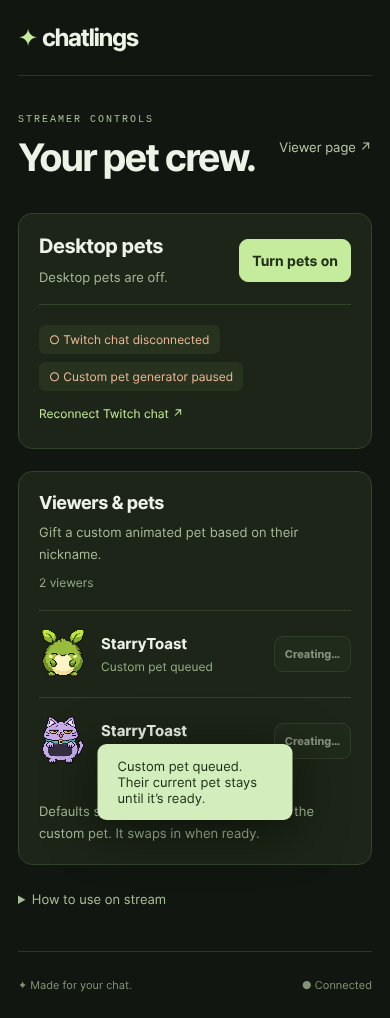
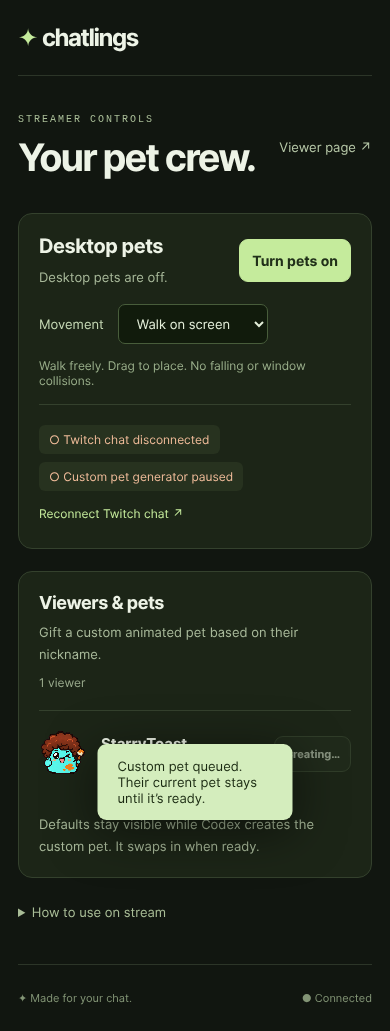
Add simple walking mode and fix desktop pet edge traps and throws

diff --git a/public/style.css b/public/style.css
@@ -1,2 +1,4 @@
 :root{color-scheme:dark;font-family:Inter,ui-sans-serif,system-ui,-apple-system,sans-serif;background:#111610;color:#edf3e6;font-synthesis:none}*{box-sizing:border-box}[hidden]{display:none!important}body{margin:0}a{color:inherit;text-decoration:none}button,a,summary{-webkit-tap-highlight-color:transparent}button{font:inherit;cursor:pointer}button:disabled{opacity:.55;cursor:default}a:focus-visible,button:focus-visible,summary:focus-visible{outline:3px solid #c5eb9c;outline-offset:5px}.shell{max-width:1160px;margin:auto;padding:0 32px}header{height:92px;display:flex;align-items:center;justify-content:space-between;border-bottom:1px solid #2c3528}.brand{font-size:28px;letter-spacing:-1.5px}.brand:first-letter{color:#c5eb9c}.brand strong{font-weight:650}.admin-link{font-size:13px;color:#b3bea9}.hero{text-align:center;padding:75px 0 54px;background:radial-gradient(ellipse at 50% 60%,#26351c55,transparent 65%)}.eyebrow{font:10px ui-monospace,monospace;letter-spacing:2px;color:#a9bd97}h1{font-size:clamp(46px,7vw,84px);line-height:1.02;letter-spacing:-4px;font-weight:650;margin:22px 0}h1 em{color:#c5eb9c;font-style:normal}.hero p{font-size:18px;line-height:1.7;color:#aab6a0}.button{display:inline-flex;justify-content:center;align-items:center;border-radius:9px;padding:14px 22px;border:1px solid #43523a;font-size:14px;font-weight:650;white-space:nowrap;background:#25301f;color:#e0edd5}.primary{background:#c5eb9c;color:#213019;border-color:#c5eb9c}.primary:hover{background:#d5f5b4}.hero .button{margin:13px 0}.hero small{display:block;font-size:12px;color:#8d9c81;margin-top:5px}.pet-gallery{border:1px solid #34412d;border-radius:18px;background:linear-gradient(140deg,#222d1b,#171e14);overflow:hidden}.section-heading{display:flex;align-items:center;justify-content:space-between;gap:18px;padding:26px 30px 0}.section-heading h2{margin:0;font-size:20px;letter-spacing:-.5px}.section-heading>span,.muted,.gallery-note{font-size:12px;color:#99aa8c}canvas{width:100%;display:block;image-rendering:pixelated}.gallery-note{text-align:center;margin:0 16px 24px;line-height:1.6}.commands{display:grid;grid-template-columns:1fr 1.4fr;gap:50px;padding:65px 12px 35px}.commands h2{font-size:30px;letter-spacing:-1px;line-height:1.25}.command-grid{display:grid;grid-template-columns:1fr 1fr;gap:14px 24px}.command-grid p{margin:0;padding:0 0 18px;border-bottom:1px solid #2c3826;line-height:1.9}code{font:12px ui-monospace,monospace;background:#26351d;color:#c7e9aa;padding:5px 7px;border-radius:5px;white-space:nowrap}.command-grid span{display:block;font-size:12px;color:#a6b29b;margin-top:8px}.closing{text-align:center;font-size:13px;color:#99aa8c;line-height:1.8;padding:10px 0 35px}footer{display:flex;justify-content:space-between;border-top:1px solid #2c3528;padding:26px 0;font-size:11px;color:#829475}.admin-heading{display:flex;justify-content:space-between;align-items:center;margin:42px 0 30px}.admin-heading h1{font-size:46px;letter-spacing:-2px;margin:12px 0}.admin-heading>a{font-size:13px;color:#b7c8a8}.card{padding:28px;border:1px solid #34412d;border-radius:14px;background:#1c2517;margin-bottom:22px}.card h2{font-size:20px;margin:0 0 8px;letter-spacing:-.5px}.card p{font-size:13px;color:#a8b99a;line-height:1.7;margin:0}.login{max-width:550px;margin:50px auto 100px}.login .button{margin:20px 0 5px}.login .muted{margin-top:14px}.setup{display:grid;grid-template-columns:1fr auto;align-items:center;gap:20px}.health{grid-column:1/-1;display:flex;gap:12px;flex-wrap:wrap;border-top:1px solid #34412d;padding-top:20px}.health span{background:#27321f;padding:7px 10px;border-radius:6px;font-size:12px;color:#c1d3b0}.health .offline{color:#efbb99}.health a{font-size:12px;padding:7px 0;color:#c5eb9c}.roster-card .section-heading{padding:0;margin-bottom:20px}.roster-card .section-heading p{margin-top:7px}.count{white-space:nowrap}.viewer-row{display:flex;align-items:center;justify-content:space-between;gap:18px;padding:17px 0;border-top:1px solid #34412d}.viewer-row strong{display:block;font-size:15px;overflow-wrap:anywhere}.viewer-row small{display:block;font-size:12px;color:#97ae85;margin-top:6px}.viewer-row .button{font-size:12px;padding:10px 14px}.hint{padding-top:16px}.empty{padding:30px 0}.help{margin:0 0 40px;padding:4px 0;font-size:13px;color:#a9bd97}.help summary{cursor:pointer}.help p{max-width:680px;line-height:1.8}#notice{position:fixed;bottom:24px;left:50%;transform:translateX(-50%);padding:14px 20px;border-radius:9px;background:#d4edbd;color:#1b2b12;box-shadow:0 10px 50px #0008;font-size:13px;max-width:calc(100vw - 32px);z-index:20}#notice:empty{display:none}@media(max-width:680px){.shell{padding:0 18px}header{height:76px}.brand{font-size:24px}.admin-link{font-size:11px}.hero{padding:55px 0 36px}h1{letter-spacing:-2.5px}.hero p{font-size:15px}.section-heading{padding:20px 20px 0;align-items:start;flex-direction:column;gap:8px}.section-heading h2{font-size:18px}.gallery-note{font-size:11px}.commands{grid-template-columns:1fr;gap:15px;padding:40px 0 20px}.commands h2{font-size:27px;margin:12px 0}.command-grid{gap:12px}.closing{font-size:12px}.admin-heading{margin:30px 0 24px}.admin-heading h1{font-size:38px}.card{padding:20px}.setup{gap:16px}.setup .button{padding:12px}.viewer-row{gap:8px}.viewer-row .button{font-size:11px;padding:10px}.roster-card .section-heading{gap:10px}.health{gap:8px}.login{margin:25px 0 70px}}@media(prefers-reduced-motion:reduce){*{scroll-behavior:auto}}
 .person{display:flex;align-items:center;gap:14px;min-width:0}.person canvas{width:48px;height:52px;flex-shrink:0}.person>div{min-width:0}
+
+.movement{grid-column:1/-1;display:flex;align-items:center;gap:14px;flex-wrap:wrap}.movement label{font-size:13px;color:#c5d8b4}.movement select{font:inherit;font-size:13px;padding:10px 14px;border:1px solid #485d3b;border-radius:7px;background:#111b0c;color:#e4efda}.movement small{font-size:12px;color:#99ae8a}

diff --git a/public/app.js b/public/app.js
@@ -19,7 +19,8 @@ function renderRoster(){const players=world.players.filter(p=>!p.simulated&&!p.i
  for(const p of visible){let row=rows.get(p.id);if(!row){const el=document.createElement('div');el.className='viewer-row';const person=document.createElement('div');person.className='person';const canvas=document.createElement('canvas');canvas.width=48;canvas.height=52;canvas.setAttribute('aria-hidden','true');const info=document.createElement('div'),name=document.createElement('strong'),detail=document.createElement('small'),button=document.createElement('button');info.append(name,detail);person.append(canvas,info);button.className='button';button.onclick=()=>commission(p.id);el.append(person,button);$('roster').append(el);row={el,canvas,name,detail,button};rows.set(p.id,row);}row.name.textContent=p.name;const jobs=world.skins.filter(j=>j.userId===p.id),latest=jobs.at(-1),ready=jobs.filter(j=>j.status==='ready').at(-1),waiting=['queued','generating'].includes(latest?.status);row.asset=ready?.asset||'/pets/'+ids[p.appearance.seed%5]+'.png';row.detail.textContent=latest?.status==='queued'?'Custom pet queued':latest?.status==='generating'?'Codex is creating this pet…':latest?.status==='failed'?'Creation failed · current pet kept':ready?'Custom pet':names[p.appearance.seed%5]+' · default';row.button.textContent=waiting?'Creating…':ready?'New custom pet':'Make custom pet';row.button.disabled=waiting||pending.has(p.id);}
 }
 async function commission(id){pending.add(id);renderRoster();try{await api('skins/host',{action:'assign',userId:id});notify('Custom pet queued. Their current pet stays until it’s ready.');await pollWorld();}catch(e){notify(e.message);}finally{pending.delete(id);renderRoster();}}
-async function refreshStatus(){if(!admin||!meta.host)return;try{status=await api('admin/status');$('desktopStatus').textContent=status.desktop.running?'Pets are running on your streaming desktop.':'Desktop pets are off.';$('desktopToggle').textContent=status.desktop.running?'Turn pets off':'Turn pets on';$('desktopToggle').disabled=desktopBusy;$('chatStatus').textContent=status.chat==='connected'?'● Twitch chat connected':'○ Twitch chat disconnected';$('chatStatus').classList.toggle('offline',status.chat!=='connected');$('hatchStatus').textContent=status.hatchery.running?'● Custom pet generator ready':'○ Custom pet generator paused';$('hatchStatus').classList.toggle('offline',!status.hatchery.running);$('reconnectChat').hidden=status.chat==='connected'||location.hostname!=='localhost';}catch(e){$('desktopStatus').textContent=e.message;}}
+async function refreshStatus(){if(!admin||!meta.host)return;try{status=await api('admin/status');if(document.activeElement!==$('movementMode'))$('movementMode').value=status.desktop.mode||'walk';$('movementHelp').textContent=status.desktop.mode==='physics'?'Gravity, throws and landings on visible window tops.':'Walk freely. Drag to place. No falling or window collisions.';$('desktopStatus').textContent=status.desktop.running?'Pets are running on your streaming desktop.':'Desktop pets are off.';$('desktopToggle').textContent=status.desktop.running?'Turn pets off':'Turn pets on';$('desktopToggle').disabled=desktopBusy;$('chatStatus').textContent=status.chat==='connected'?'● Twitch chat connected':'○ Twitch chat disconnected';$('chatStatus').classList.toggle('offline',status.chat!=='connected');$('hatchStatus').textContent=status.hatchery.running?'● Custom pet generator ready':'○ Custom pet generator paused';$('hatchStatus').classList.toggle('offline',!status.hatchery.running);$('reconnectChat').hidden=status.chat==='connected'||location.hostname!=='localhost';}catch(e){$('desktopStatus').textContent=e.message;}}
+$('movementMode').onchange=async()=>{const mode=$('movementMode').value;$('movementMode').disabled=true;try{await api('admin/desktop-settings',{mode});notify(mode==='walk'?'Walk mode on. Drag pets wherever you like.':'Window physics on.');}catch(e){notify(e.message);}finally{$('movementMode').disabled=false;await refreshStatus();}};
 $('desktopToggle').onclick=async()=>{desktopBusy=true;$('desktopToggle').disabled=true;try{await api('admin/desktop',{enabled:!status.desktop?.running});notify(status.desktop?.running?'Desktop pets stopped.':'Starting desktop pets…');}catch(e){notify(e.message);}finally{desktopBusy=false;await refreshStatus();}};
 async function pollWorld(){try{world=await api('state');$('connection').textContent='● Connected';if(admin&&meta.host)renderRoster();}catch{$('connection').textContent='Reconnecting…';}}
 async function init(){try{meta=await api('me');if(meta.channel){$('chatLink').href='https://www.twitch.tv/'+encodeURIComponent(meta.channel)+'/chat';$('chatLink').target='_blank';$('chatLink').rel='noopener';$('chatLink').textContent='Join '+meta.channel+'’s chat ↗';}else $('chatLink').textContent='See chat commands';if(admin){$('adminGate').hidden=!!meta.host;$('adminControls').hidden=!meta.host;if(meta.user&&!meta.host)$('gateMessage').textContent='You’re signed in as '+meta.user.name+'. Switch to the broadcaster’s Twitch account to manage pets.';await refreshStatus();}await pollWorld();}catch(e){notify(e.message);}}

diff --git a/public/index.html b/public/index.html
@@ -6,6 +6,6 @@
 <section id="commands" class="commands"><div><span class="eyebrow">JUST TYPE IN TWITCH CHAT</span><h2>A little nudge.<br>A lot of personality.</h2></div><div class="command-grid"><p><code>hello!</code><span>A message above your pet</span></p><p><code>!left</code> <code>!right</code><span>Move your pet</span></p><p><code>!jump</code><span>A little hop</span></p><p><code>!dance</code> <code>!spin</code><span>Show off</span></p><p><code>!love</code> <code>!rage</code> <code>!party</code><span>Big feelings</span></p><p><code>!stay</code> <code>!roam</code> <code>!sleep</code><span>Settle down or explore</span></p></div></section><p class="closing">Five defaults to start. The streamer can gift you a custom pet inspired by your nickname.</p></main>
 <main id="adminPage" hidden><div class="admin-heading"><div><span class="eyebrow">STREAMER CONTROLS</span><h1>Your pet crew.</h1></div><a href="/">Viewer page ↗</a></div>
 <section id="adminGate" class="card login"><h2>Sign in as the streamer.</h2><p>Use the Twitch account that owns this stream.</p><a class="button primary" href="/auth/twitch?admin=1">Sign in with Twitch</a><p id="gateMessage" class="muted"></p></section>
-<div id="adminControls" hidden><section class="card setup"><div><h2>Desktop pets</h2><p id="desktopStatus">Checking desktop…</p></div><button id="desktopToggle" class="button primary" disabled>Checking…</button><div class="health"><span id="chatStatus">Chat · checking</span><span id="hatchStatus">Custom pets · checking</span><a id="reconnectChat" href="/auth/chat" hidden>Reconnect Twitch chat ↗</a></div></section>
+<div id="adminControls" hidden><section class="card setup"><div><h2>Desktop pets</h2><p id="desktopStatus">Checking desktop…</p></div><button id="desktopToggle" class="button primary" disabled>Checking…</button><div class="movement"><label for="movementMode">Movement</label><select id="movementMode"><option value="walk">Walk on screen</option><option value="physics">Window physics</option></select><small id="movementHelp">Walk freely. Drag to place. No falling or window collisions.</small></div><div class="health"><span id="chatStatus">Chat · checking</span><span id="hatchStatus">Custom pets · checking</span><a id="reconnectChat" href="/auth/chat" hidden>Reconnect Twitch chat ↗</a></div></section>
 <section class="card roster-card"><div class="section-heading"><div><h2>Viewers & pets</h2><p>Gift a custom animated pet based on their nickname.</p></div><span id="viewerCount" class="count">0 viewers</span></div><div id="roster"></div><p class="muted hint">Defaults stay visible while Codex creates the custom pet. It swaps in when ready.</p></section><details class="help"><summary>How to use on stream</summary><p>Capture your display in OBS. Drag pets with your mouse and release to throw them. They land on visible window tops and fall off edges.</p><p>Viewers join by chatting. You can also gift a pet by typing <code>!custom viewername</code> in Twitch chat.</p></details></div></main>
 <footer><span>✦ Made for your chat.</span><span id="connection">Connecting…</span></footer><div id="notice" role="status" aria-live="polite"></div></div><script type="module" src="/app.js"></script></body></html>

diff --git a/desktop/physics.py b/desktop/physics.py
@@ -33,6 +33,9 @@ class Body:
     drive: int = 0
     last_intent: int = 0
     last_horizontal: float = 0
+    walk_y: object = None
+    jump_start: float = -100
+    turn_until: float = 0
     landed_at: float = -10
     offset: tuple = (0, 0)
     samples: list = field(default_factory=list)
@@ -76,16 +79,17 @@ def visible_edges(windows, width, height):
 class Physics:
     HALF = 32
     HEIGHT = 74
-    GRAVITY = 1400
-    MAX_FALL = 1200
-    WALK = 70
+    GRAVITY = 2000
+    MAX_FALL = 1500
+    WALK = 60
 
-    def __init__(self, width, height, floor=None, left=0, right=None, ceiling=0):
+    def __init__(self, width, height, floor=None, left=0, right=None, ceiling=0, mode="physics"):
         self.width, self.height = width, height
         self.floor = height-3 if floor is None else floor
         self.left = left+self.HALF
         self.right = (width if right is None else right)-self.HALF
         self.ceiling = ceiling+self.HEIGHT
+        self.mode = mode
         self.bodies = {}
         self.edges = []
         self.clock = 0
@@ -96,7 +100,54 @@ class Physics:
         for p in actors:
             if p['id'] not in self.bodies:
                 x = 45 + p.get('x', 450)/960*(self.width-90)
-                self.bodies[p['id']] = Body(max(self.left, min(self.right, x)), self.ceiling+16)
+                self.bodies[p['id']] = Body(max(self.left, min(self.right, x)), self.floor-34 if self.mode=='walk' else self.ceiling+16)
+
+    def set_mode(self, mode):
+        if mode not in ('walk','physics'): raise ValueError('Unknown movement mode')
+        if mode == self.mode:return
+        self.mode = mode
+        for b in self.bodies.values():
+            b.x = max(self.left+8, min(self.right-8,b.x))
+            b.vx = b.vy = 0; b.thrown = False; b.jump_start = -100
+            b.support = 'walk' if mode == 'walk' else None
+            b.walk_y = max(self.ceiling,min(self.floor-24,b.y))
+            b.y = b.walk_y
+
+    def _drive(self,b,actor,dt):
+        direction = (-1 if actor.get('facing') == 'left' else 1) if actor.get('moving') else 0
+        emote = actor.get('emote') or {}
+        if emote.get('until',0) > actor.get('_now',0): direction = 0
+        if direction != b.last_intent:
+            if self.clock >= b.turn_until:b.drive = direction
+            b.last_intent = direction
+        move = actor.get('chatMove') or {}
+        if move.get('x') and move.get('until',0) > max(b.last_horizontal,actor.get('_now',0)):
+            b.last_horizontal = move['until']; b.drive = -1 if move['x'] < 0 else 1
+        if direction and not b.drive:b.drive = direction
+        desired = b.drive*self.WALK if direction else 0
+        b.vx += max(-1200*dt,min(1200*dt,desired-b.vx))
+
+    def _screen_bounds(self,b):
+        if b.x <= self.left and b.vx < 0:
+            b.x = self.left; b.vx = abs(b.vx)*(.3 if b.support is None else 1)
+            b.drive = 1; b.turn_until = self.clock+.8
+        elif b.x >= self.right and b.vx > 0:
+            b.x = self.right; b.vx = -abs(b.vx)*(.3 if b.support is None else 1)
+            b.drive = -1; b.turn_until = self.clock+.8
+        b.x = max(self.left,min(self.right,b.x))
+
+    def _walk_step(self,b,actor,dt):
+        if b.dragging:return
+        if b.walk_y is None:b.walk_y = max(self.ceiling,min(self.floor-24,b.y))
+        stamp = actor.get('jumpedAt',0)
+        if stamp > b.last_jump:
+            b.last_jump = stamp; b.jump_start = self.clock
+        self._drive(b,actor,dt); b.x += b.vx*dt; self._screen_bounds(b)
+        age = self.clock-b.jump_start
+        if age < .6:
+            phase = max(0,age/.6); b.y = max(self.ceiling,b.walk_y-4*42*phase*(1-phase))
+            b.vy = -280*(1-2*phase); b.support = None
+        else:b.y = b.walk_y; b.vy = 0; b.support = 'walk'
 
     def begin_drag(self, pid, x, y, now):
         body = self.bodies[pid]
@@ -114,22 +165,25 @@ class Physics:
 
     def release(self, pid, now):
         body = self.bodies[pid]; body.dragging = False
+        if self.mode == 'walk':
+            body.walk_y = max(self.ceiling,min(self.floor-24,body.y));body.y = body.walk_y
+            body.vx = body.vy = 0;body.thrown = False;body.support = 'walk';body.samples = [];return
         recent = [s for s in body.samples if now-s[0] <= .13]
         body.vx = body.vy = 0
         if len(recent) >= 2 and now-recent[-1][0] < .08:
             first, last = recent[0], recent[-1]
             duration = max(.015, last[0]-first[0])
-            body.vx = max(-1500, min(1500, (last[1]-first[1])/duration))
-            body.vy = max(-1300, min(1300, (last[2]-first[2])/duration))
+            body.vx = max(-1200, min(1200, (last[1]-first[1])/duration))
+            body.vy = max(-1400, min(1400, (last[2]-first[2])/duration))
         body.thrown = abs(body.vx) > 160 or abs(body.vy) > 160
-        if body.thrown and body.vy > -100:
-            body.vy = -abs(body.vx)*.35
         if not body.thrown: body.vx = body.vy = 0
         body.samples = []; body.support = None
 
     def reset(self, pid):
         body = self.bodies[pid]
-        body.y = self.ceiling+16; body.vx = body.vy = 0; body.support = None; body.thrown = False
+        body.x = (self.left+self.right)/2;body.drive=0;body.last_intent=0;body.dragging=False;body.samples=[]
+        body.walk_y = self.floor-34 if self.mode=='walk' else None
+        body.y = body.walk_y if self.mode=='walk' else self.ceiling+16; body.vx = body.vy = 0; body.support = None; body.thrown = False
 
     def step(self, dt, actors):
         self.clock += min(max(dt, 0), .1)
@@ -139,7 +193,8 @@ class Physics:
         while remaining > .000001:
             step = min(remaining, 1/120)
             for actor in actors:
-                self._body_step(self.bodies[actor['id']], actor, step)
+                if self.mode=='walk':self._walk_step(self.bodies[actor['id']],actor,step)
+                else:self._body_step(self.bodies[actor['id']],actor,step)
             remaining -= step
 
     def _body_step(self, b, actor, dt):
@@ -157,43 +212,36 @@ class Physics:
         if stamp > b.last_jump:
             b.last_jump = stamp
             if b.support is not None:
-                b.vy = -560; b.support = None
+                b.vy = -520; b.support = None
         move = actor.get('chatMove') or {}
         if move.get('until', 0) > max(b.last_vertical,actor.get('_now',0)) and move.get('y'):
             b.last_vertical = move['until']
             if move['y'] < 0 and b.support is not None:
-                b.support = None; b.vy = -560
+                b.support = None; b.vy = -520
             elif move['y'] > 0 and b.support not in (None, 'floor'):
                 b.ignore_window = b.support; b.ignore_until = self.clock+.5
                 b.support = None; b.y += 2; b.vy = 80
-        if b.support is not None:
-            direction = (-1 if actor.get('facing') == 'left' else 1) if actor.get('moving') else 0
-            emote = actor.get('emote') or {}
-            if emote.get('until', 0) > actor.get('_now', 0): direction = 0
-            if direction != b.last_intent:
-                b.drive = direction; b.last_intent = direction
-            if move.get('x') and move.get('until',0) > max(b.last_horizontal,actor.get('_now',0)):
-                b.last_horizontal = move['until']; b.drive = -1 if move['x'] < 0 else 1
-            desired = b.drive*self.WALK if direction else 0
-            b.vx += max(-1100*dt, min(1100*dt, desired-b.vx))
+        if b.support is not None:self._drive(b,actor,dt)
         else:
-            b.vy = min(self.MAX_FALL, b.vy+self.GRAVITY*dt)
-            b.vx *= math.exp(-.18*dt)
+            b.vy = min(self.MAX_FALL,b.vy+self.GRAVITY*dt)
+            b.vx *= math.exp(-.08*dt)
         old_x, old_y = b.x, b.y
         b.x += b.vx*dt
-        if b.x < self.left or b.x > self.right:
-            b.x = max(self.left, min(self.right, b.x)); b.vx *= -.55
-            if b.support is not None:b.drive=1 if b.x==self.left else -1
+        self._screen_bounds(b)
         # Side-wall impact; touching a roof is not a side impact.
         for e in self.edges:
             if e.window == b.ignore_window and self.clock < b.ignore_until: continue
+            # A wall beside a monitor edge must not create an impossible narrow pocket.
+            if e.side=='left' and e.coord-self.HALF < self.left+12:continue
+            if e.side=='right' and e.coord+self.HALF > self.right-12:continue
             if e.side not in ('left', 'right') or not (b.y > e.start+1 and b.y-self.HEIGHT < e.end-1): continue
             if e.side == 'left' and b.vx > 0 and old_x+self.HALF <= e.coord+.01 and b.x+self.HALF >= e.coord:
-                b.x = e.coord-self.HALF; b.vx *= -.55
-                if b.support is not None:b.drive=-1
+                b.x = e.coord-self.HALF; b.vx *= -.3
+                if b.support is not None:b.drive=-1;b.turn_until=self.clock+.8
             elif e.side == 'right' and b.vx < 0 and old_x-self.HALF >= e.coord-.01 and b.x-self.HALF <= e.coord:
-                b.x = e.coord+self.HALF; b.vx *= -.55
-                if b.support is not None:b.drive=1
+                b.x = e.coord+self.HALF; b.vx *= -.3
+                if b.support is not None:b.drive=1;b.turn_until=self.clock+.8
+        self._screen_bounds(b)
         if b.support not in (None, 'floor') and not any(e.side == 'top' and e.window == b.support and e.start <= b.x <= e.end for e in self.edges):
             b.support = None
         if b.support is None:
@@ -208,15 +256,15 @@ class Physics:
                 ceilings = [e for e in self.edges if e.side == 'bottom' and e.start-self.HALF < b.x < e.end+self.HALF and old_y-self.HEIGHT >= e.coord-.01 and b.y-self.HEIGHT <= e.coord]
                 if ceilings:
                     ceiling = max(ceilings, key=lambda e:e.coord)
-                    b.y = ceiling.coord+self.HEIGHT; b.vy = abs(b.vy)*.3
+                    b.y = ceiling.coord+self.HEIGHT; b.vy = abs(b.vy)*.15
             if b.y >= self.floor:
                 b.y = self.floor; self._land(b, 'floor', 0, self.floor)
             if b.y < self.ceiling:
-                b.y = self.ceiling; b.vy = abs(b.vy)*.3
+                b.y = self.ceiling; b.vy = abs(b.vy)*.15
 
     def _land(self, b, support, x, y):
-        if b.thrown and b.vy > 300:
-            b.vy *= -.28; b.vx *= .78
+        if b.thrown and b.vy > 480:
+            b.vy *= -.12; b.vx *= .6
             b.support = None; b.y -= .1
         else:
             b.vy = 0; b.thrown = False; b.support = support

diff --git a/desktop/overlay.py b/desktop/overlay.py
@@ -26,6 +26,7 @@ import cairo
 ROOT=Path(__file__).resolve().parents[1]
 STATUS=ROOT/'data/desktop-status.json'
 PID=ROOT/'data/desktop-overlay.pid'
+SETTINGS=ROOT/'data/desktop-settings.json'
 DEFAULT_IDS=['mossbyte','toast-panic','sir-honk','blob-ross','buffer-cat']
 ROW_COUNTS=[6,8,8,4,5,8,6,6,6,6,6,6,6,6,6,6,6,6,6,6,6,6]
 EMOTE_ROWS={'dance':20,'spin':13,'love':16,'rage':5,'party':3,'sleep':6}
@@ -128,6 +129,11 @@ class Renderer:
    x,y=map_position(fusion['x'],fusion['y'],width,height);rgba(ctx,'#afcf9d');ctx.rectangle(x-42,y-80,84,80);ctx.fill();ctx.rectangle(x-28,y-115,56,36);ctx.fill();rgba(ctx,'#304f46');ctx.rectangle(x-20,y-103,40,10);ctx.fill();self.label(ctx,'COMMUNITY GUARDIAN',x,y+25)
 
 class Overlay(Gtk.Window):
+ def read_mode(self):
+  try:mode=json.loads(SETTINGS.read_text()).get('mode','walk');return mode if mode in ('walk','physics') else 'walk'
+  except (OSError,ValueError):return 'walk'
+ def set_mode(self,mode):
+  SETTINGS.parent.mkdir(exist_ok=True);temp=SETTINGS.with_suffix('.local.tmp');temp.write_text(json.dumps({'mode':mode}));temp.replace(SETTINGS);self.physics.set_mode(mode)
  def __init__(self,url):
   super().__init__(title='Chatlings desktop pets')
   self.url=url;self.state={};self.received=0;self.renderer=Renderer();self.frames=0;self.dragged=None;self.surface_error=None;self.last_tick=time.monotonic();self.last_scan=0
@@ -136,7 +142,7 @@ class Overlay(Gtk.Window):
   self.set_visual(visual);self.set_app_paintable(True);self.set_decorated(False);self.set_resizable(False);self.set_keep_above(True);self.set_accept_focus(False);self.set_focus_on_map(False);self.set_skip_taskbar_hint(True);self.set_skip_pager_hint(True);self.set_type_hint(Gdk.WindowTypeHint.DOCK);self.stick()
   monitor=Gdk.Display.get_default().get_primary_monitor() or Gdk.Display.get_default().get_monitor(0);bounds=monitor.get_geometry();self.set_default_size(bounds.width,bounds.height);self.set_size_request(bounds.width,bounds.height);self.move(bounds.x,bounds.y)
   area=monitor.get_workarea()
-  self.physics=Physics(bounds.width,bounds.height,floor=min(bounds.height,area.y+area.height-bounds.y)-3,left=max(0,area.x-bounds.x),right=min(bounds.width,area.x+area.width-bounds.x),ceiling=max(0,area.y-bounds.y));self.surfaces=WindowSurfaces(bounds.x,bounds.y,bounds.width,bounds.height)
+  self.physics=Physics(bounds.width,bounds.height,floor=min(bounds.height,area.y+area.height-bounds.y)-3,left=max(0,area.x-bounds.x),right=min(bounds.width,area.x+area.width-bounds.x),ceiling=max(0,area.y-bounds.y),mode=self.read_mode());self.surfaces=WindowSurfaces(bounds.x,bounds.y,bounds.width,bounds.height)
   self.add_events(Gdk.EventMask.BUTTON_PRESS_MASK|Gdk.EventMask.BUTTON_RELEASE_MASK|Gdk.EventMask.POINTER_MOTION_MASK)
   self.connect('button-press-event',self.press);self.connect('motion-notify-event',self.motion);self.connect('button-release-event',self.release)
   self.connect('grab-broken-event',self.lost_grab)
@@ -166,7 +172,11 @@ class Overlay(Gtk.Window):
   pid=self.hit(x,y)
   if not pid:return False
   if button==3:
-   menu=Gtk.Menu();drop=Gtk.MenuItem(label='Drop this pet from the top');drop.connect('activate',lambda *_:self.physics.reset(pid));menu.append(drop);menu.show_all();menu.popup_at_pointer(event);self.context_menu=menu;return True
+   menu=Gtk.Menu();walk=Gtk.RadioMenuItem.new_with_label(None,'Walk on screen');full=Gtk.RadioMenuItem.new_with_label_from_widget(walk,'Window physics')
+   (walk if self.physics.mode=='walk' else full).set_active(True)
+   walk.connect('toggled',lambda item:self.set_mode('walk') if item.get_active() else None);full.connect('toggled',lambda item:self.set_mode('physics') if item.get_active() else None)
+   menu.append(walk);menu.append(full);menu.append(Gtk.SeparatorMenuItem())
+   drop=Gtk.MenuItem(label='Bring this pet back');drop.connect('activate',lambda *_:self.physics.reset(pid) if pid in self.physics.bodies else None);menu.append(drop);menu.show_all();menu.popup_at_pointer(event);self.context_menu=menu;return True
   if button!=1:return False
   self.dragged=pid;self.physics.begin_drag(pid,x,y,time.monotonic());self.update_input()
   seat=self.get_display().get_default_seat()
@@ -204,7 +214,9 @@ class Overlay(Gtk.Window):
  def tick(self):
   now=time.monotonic();dt=now-self.last_tick;self.last_tick=now
   if now-self.last_scan>.12:
-   try:self.physics.edges=self.surfaces.scan();self.surface_error=None
+   try:
+    self.physics.set_mode(self.read_mode())
+    self.physics.edges=self.surfaces.scan() if self.physics.mode=='physics' else [];self.surface_error=None
    except Exception as error:self.surface_error=str(error);self.physics.edges=[]
    self.last_scan=now
   self.physics.step(dt,self.actors())
@@ -214,7 +226,7 @@ class Overlay(Gtk.Window):
  def paint(self,_,ctx):
   self.renderer.draw(ctx,self.state if time.monotonic()-self.received<5 else {},self.get_allocated_width(),self.get_allocated_height(),self.physics.bodies);self.frames+=1
   if self.frames%30==1:
-   STATUS.parent.mkdir(exist_ok=True);STATUS.write_text(json.dumps({'pid':os.getpid(),'windowId':self.get_window().get_xid(),'clickThroughOutsidePets':True,'mouseGrabEnabled':True,'dragged':self.dragged,'surfaceWindows':self.surfaces.count,'surfaceError':self.surface_error,'bodies':{pid:{'x':round(b.x,1),'y':round(b.y,1),'vx':round(b.vx,1),'vy':round(b.vy,1),'support':b.support,'dragging':b.dragging} for pid,b in self.physics.bodies.items()},'transparent':True,'frames':self.frames,'players':[p.get('name') for p in self.state.get('players',[])],'connected':time.monotonic()-self.received<5}))
+   STATUS.parent.mkdir(exist_ok=True);STATUS.write_text(json.dumps({'pid':os.getpid(),'windowId':self.get_window().get_xid(),'clickThroughOutsidePets':True,'mode':self.physics.mode,'mouseGrabEnabled':True,'dragged':self.dragged,'surfaceWindows':self.surfaces.count,'surfaceError':self.surface_error,'bodies':{pid:{'x':round(b.x,1),'y':round(b.y,1),'vx':round(b.vx,1),'vy':round(b.vy,1),'support':b.support,'dragging':b.dragging} for pid,b in self.physics.bodies.items()},'transparent':True,'frames':self.frames,'players':[p.get('name') for p in self.state.get('players',[])],'connected':time.monotonic()-self.received<5}))
   return True
 
 def main():

diff --git a/desktop/test_physics.py b/desktop/test_physics.py
@@ -76,4 +76,37 @@ class PhysicsTests(unittest.TestCase):
         sim=Physics(1000,700);sim.sync([A,{'id':'two'}]);sim.bodies['two'].x=600
         sim.sync([{'id':'two'}]);self.assertNotIn('viewer',sim.bodies);self.assertEqual(sim.bodies['two'].x,600)
 
+    def test_narrow_window_side_cannot_trap_pet(self):
+        sim=Physics(1000,700);sim.edges=visible_edges([(7,70,100,900,590)],1000,700)
+        sim.bodies['viewer']=Body(34,697,support='floor')
+        b=self.settle(sim,3,{**A,'moving':True,'facing':'right'})
+        self.assertGreater(b.x,180);self.assertLessEqual(b.x,sim.right)
+
+    def test_throw_follows_mouse_without_artificial_upward_kick(self):
+        for end_y in (200,280):
+            sim=Physics(1000,700);sim.bodies['viewer']=Body(200,200)
+            sim.begin_drag('viewer',200,200,1);sim.drag('viewer',280,end_y,1.08);sim.release('viewer',1.081)
+            self.assertAlmostEqual(sim.bodies['viewer'].vy,(end_y-200)/.08)
+            b=self.settle(sim,2);self.assertEqual(b.support,'floor');self.assertFalse(b.thrown)
+
+    def test_walk_mode_ignores_windows_and_keeps_placement(self):
+        sim=Physics(1000,700,mode='walk');sim.bodies['viewer']=Body(200,400)
+        sim.edges=visible_edges([(7,250,100,500,500)],1000,700)
+        b=self.settle(sim,3,{**A,'moving':True,'facing':'right'})
+        self.assertGreater(b.x,350);self.assertEqual(b.y,400)
+        sim.begin_drag('viewer',b.x,b.y,1);sim.drag('viewer',600,250,1.05);sim.release('viewer',1.051)
+        self.assertFalse(b.thrown);self.assertEqual(b.vx,0)
+        self.settle(sim,2);self.assertEqual(b.y,250)
+
+    def test_walk_mode_turns_at_edge_and_jump_returns_to_baseline(self):
+        sim=Physics(1000,700,mode='walk');sim.bodies['viewer']=Body(965,400)
+        b=self.settle(sim,1,{**A,'moving':True,'facing':'right','jumpedAt':999})
+        self.assertLess(b.x,940);self.assertEqual(b.y,400);self.assertEqual(b.support,'walk')
+
+    def test_switch_modes_clears_old_window_support_and_throw(self):
+        sim=Physics(1000,700);b=Body(10,350,vx=900,vy=-400,support=7,thrown=True);sim.bodies['viewer']=b
+        sim.set_mode('walk');self.assertEqual(b.support,'walk');self.assertFalse(b.thrown);self.assertEqual(b.vy,0)
+        self.assertGreater(b.x,sim.left);sim.set_mode('physics');self.assertIsNone(b.support)
+        b=self.settle(sim);self.assertEqual(b.support,'floor')
+
 if __name__=='__main__':unittest.main()

diff --git a/qa/simple-site-check.py b/qa/simple-site-check.py
@@ -18,6 +18,12 @@ with sync_playwright() as p:
  # Only this isolated test server has keyless local demo-host mode.
  response=context.request.post(base+'/api/demo',data={'name':'StarryToast'});assert response.status==200
  user=response.json()['user'];page.goto(base+'/admin');page.wait_for_selector('#adminControls:not([hidden])')
+ page.locator('#movementMode').select_option('physics')
+ page.wait_for_function("document.querySelector('#movementHelp').textContent.includes('Gravity')")
+ assert context.request.get(base+'/api/admin/status').json()['desktop']['mode']=='physics'
+ page.locator('#movementMode').select_option('walk')
+ page.wait_for_function("document.querySelector('#movementHelp').textContent.includes('No falling')")
+ assert context.request.get(base+'/api/admin/status').json()['desktop']['mode']=='walk'
  page.get_by_role('button',name='Make custom pet',exact=True).first.click()
  page.wait_for_selector('.viewer-row button:disabled')
  jobs=context.request.get(base+'/api/skins/host').json();assert any(j['userId']==user['id'] and j['requestedBy']=='admin' and j['status']=='queued' for j in jobs)

diff --git a/qa/pet-mouse-grab-check.py b/qa/pet-mouse-grab-check.py
@@ -10,7 +10,7 @@ class Probe(Overlay):
     def tick(self):return True
     def paint(self,*_):return True
 
-window=Probe('http://localhost:9');window.physics.bodies={'qa':Body(200,400)}
+window=Probe('http://localhost:9');window.physics.set_mode('physics');window.physics.bodies={'qa':Body(200,400)}
 window.show_all();errors=[];result={}
 
 def event(kind,x,y,button=1):

diff --git a/README.md b/README.md
@@ -409,3 +409,16 @@ no screen pixels or window titles.
 The GTK renderer adapts the gravity, drag sampling, throwing and perching approach
 from the supplied ClawMate Core implementation. `clawmate-bridge` is not needed:
 Twitch supplies pet identities/intent, while this renderer owns desktop physics.
+
+## Desktop movement modes
+
+In `/admin`, choose **Walk on screen** (the default) or **Window physics**.
+You can also right-click any desktop pet to select the mode or bring it back to
+screen centre. The choice is saved and applies to all desktop pets immediately.
+
+Walk mode keeps pets at the height where you place them, ignores windows, and
+uses a small hop for `!jump`. Drag to place; releasing does not throw them.
+Window physics enables gravity, mouse throws and visible window collisions.
+Throws follow the mouse direction, with a small landing bounce that settles
+quickly. Pets turn at screen edges, and window walls too close to a monitor edge
+are ignored so they cannot trap pets in a gap narrower than their body.
